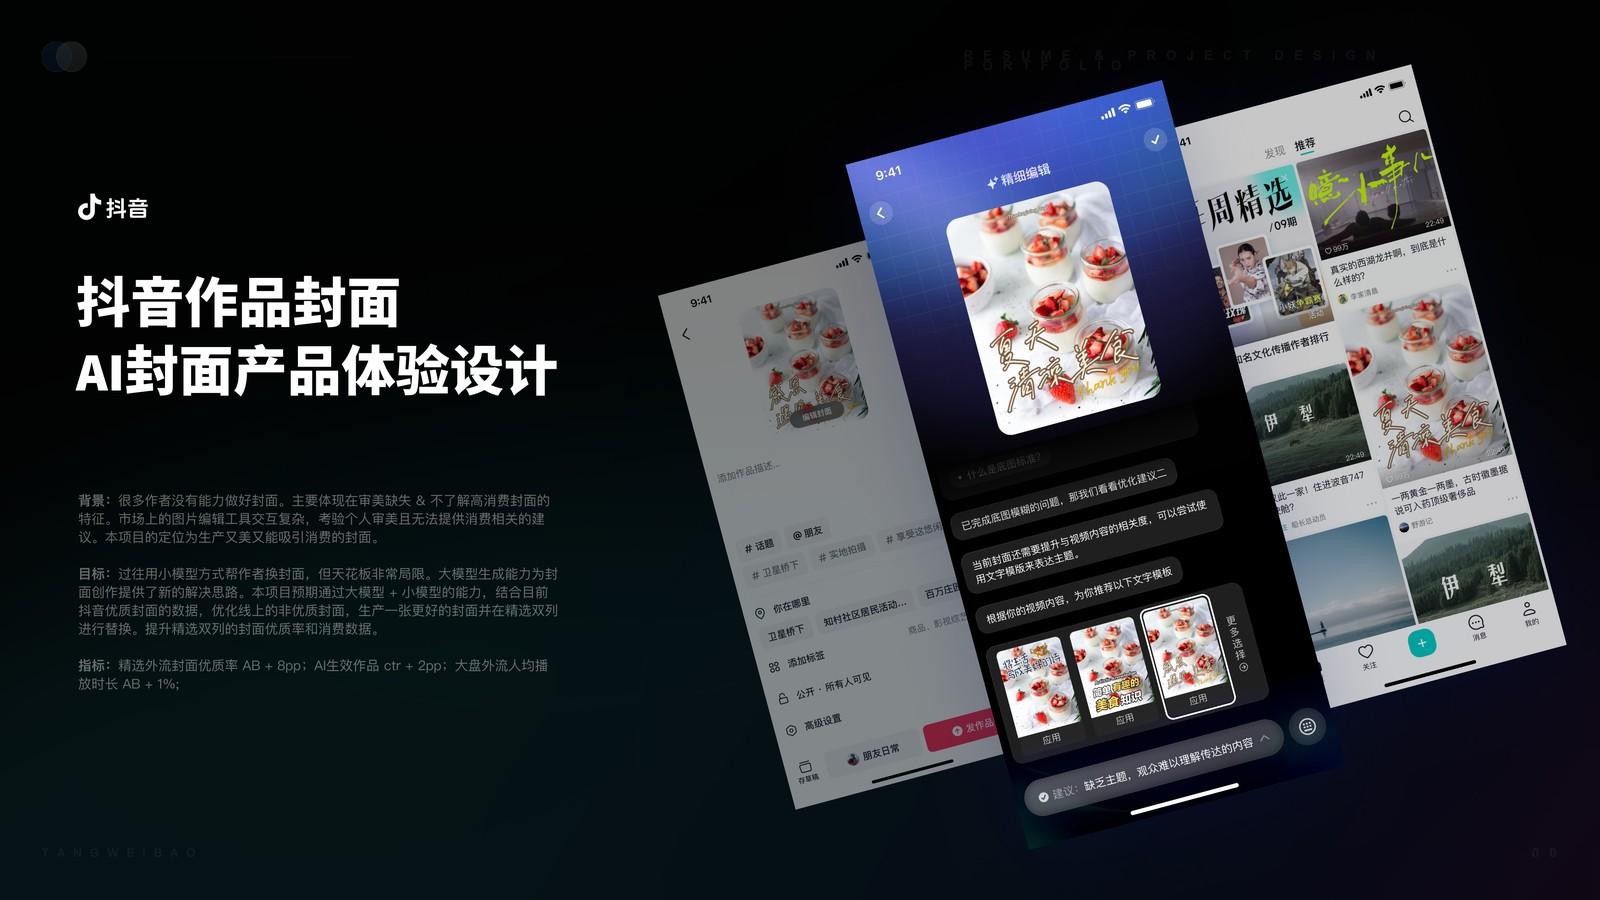
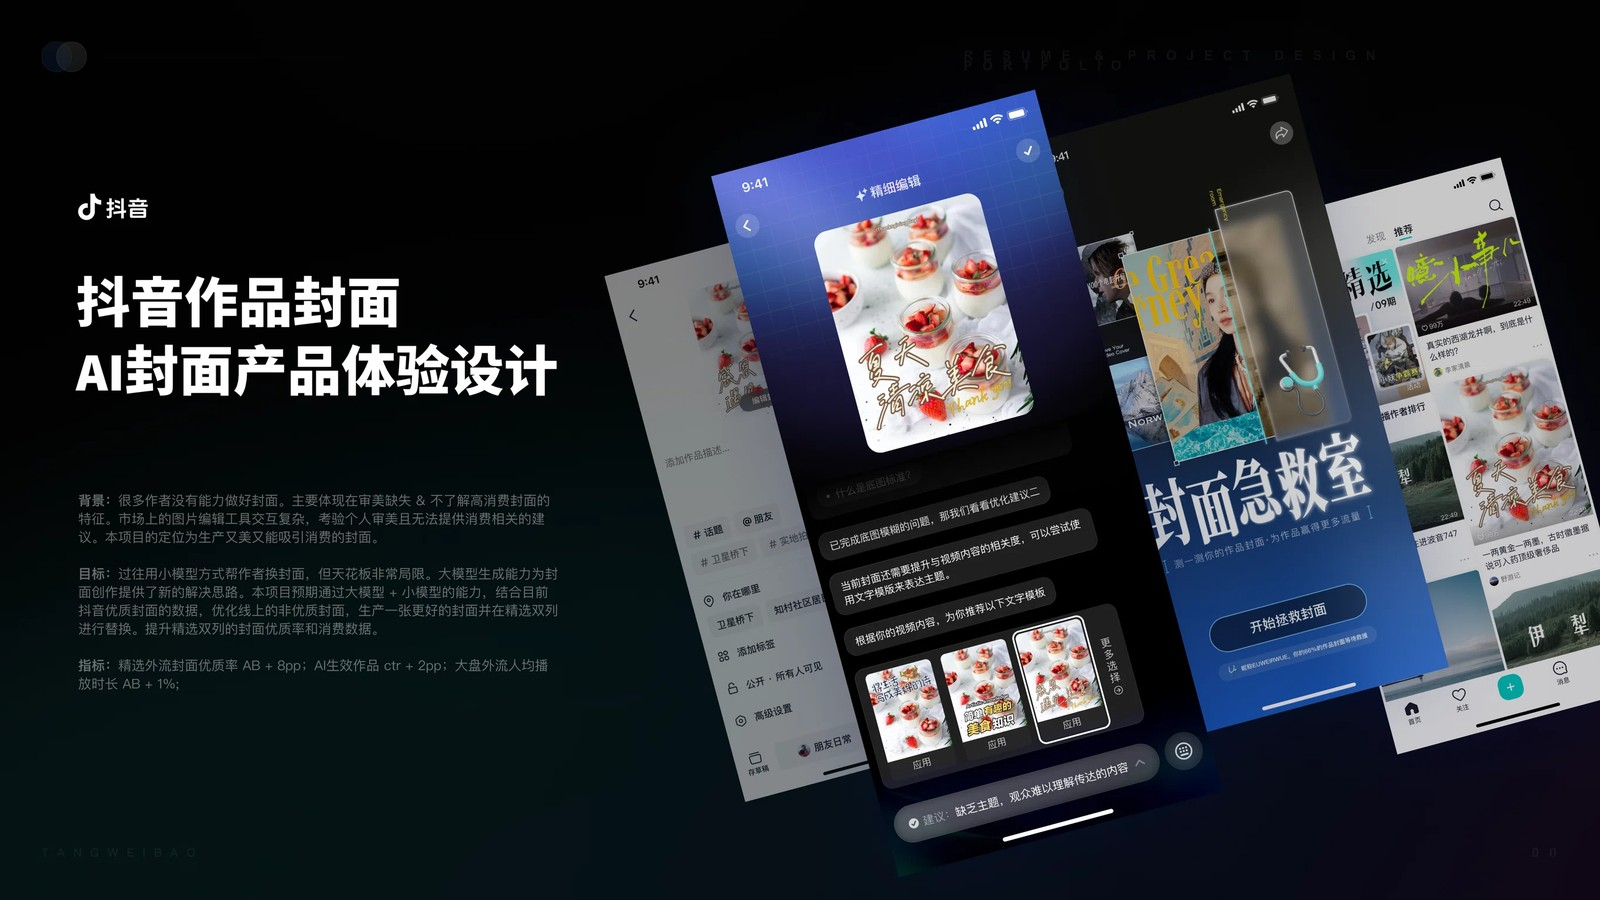
替换抖音AI封面与金山词霸的首页封面
- 抖音AI封面：使用本轮提供的「AI封面」新设计稿（2730×1536 WEBP），
  转 1600×900 JPEG q90 → assets/thumbs/douyin-ai-cover.jpg
- 金山词霸：使用 2026 作品封面/金山办公.png（3840×2160 PNG），
  转 1600×900 JPEG q90 → assets/thumbs/mobile.jpg
- 其余封面与作品内页不变；封面仍为独立文件，与第 1 页解耦
- AGENTS.md §2 / §3.2 / §6.1 同步

验证：首页 1440×900 / 项目导航截图检查两张新封面裁切正常；无 JS 报错。

diff --git a/AGENTS.md b/AGENTS.md
@@ -20,7 +20,7 @@
 | `script.js` | 数据、hash 路由、横向工作流（阻尼/拖拽）、查看器、缩略图、联系名片、焦点管理 |
 | `assets/fonts/` | Caveat / Kalam woff2（手写体强调） |
 | `assets/marks/` | 三家公司图标 `bytedance / jd / kingsoft.webp`（180–183px，RGBA 透明圆角；`douyin.webp` 保留但已不再引用） |
-| `assets/thumbs/` | 卡片封面：字节跳动四个项目使用 `2026 作品材料/作品封面` 提供的四张设计稿，压缩后为 `douyin-platform / douyin-ai-cover / douyin-other / douyin-ai-practice.jpg`（1600×900 JPEG）；JD（`jd.jpg`）与金山词霸（`mobile.jpg`）沿用原封面 |
+| `assets/thumbs/` | 卡片封面：字节跳动四个项目 + 金山词霸使用 `2026 作品材料/作品封面` 的设计稿，压缩后为 `douyin-platform / douyin-ai-cover / douyin-other / douyin-ai-practice / mobile.jpg`（1600×900 JPEG）；JD 沿用 `jd.jpg` 原封面 |
 | `assets/slide-thumbs/` | 查看器缩略图（16:9，320×180；`byte-*` 为字节跳动四个项目、`jd/kingsoft` 为历史项目） |
 | `assets/works/bytedance/` | 2026 作品材料导入的字节跳动四个项目：`platform`（35 页）、`ai-cover`（9 页）、`other`（4 页）、`ai-practice`（5 页图片 + 1 页复合视频），统一 2560×1440 JPEG |
 | `assets/video/` | 复合页演示视频（1080p H.264，≤12 MB/条）与 `-poster.jpg` 静帧 |
@@ -44,7 +44,7 @@
 ### 3.2 卡片封面（首页小卡 + 项目页大卡共用一张）
 
 - 字节跳动四个项目使用独立封面图：`assets/thumbs/douyin-*.jpg`（来源 `2026 作品材料/作品封面` 的四张 3840×2160 设计稿，统一压成 1600×900 JPEG）；封面不跟随第 1 页变化。
-- JD 与金山词霸沿用各自历史封面（`jd.jpg` / `mobile.jpg`，本身即设计稿）。
+- JD 沿用原封面 `jd.jpg`；金山词霸使用 `2026 作品材料/作品封面/金山办公.png` 压缩的 `mobile.jpg`（1600×900）。
 - 卡片呈现与京东零售封面一致：`object-fit: cover` 居中裁切；首页卡与项目页卡比例差异较大（0.25–1.43），保证封面中心内容落在裁切安全区。
 - 换封面时替换对应 `assets/thumbs/*.jpg` 即可；作品内页顺序与封面相互独立。
 - **卡片文字层**：顶部是项目名（Impact）+ 页数/类型（`32 PAGES · EXPLORE` 或「项目资料整理中」），底部是序号 `01` + 类型（`PLATFORM · WEB`）；遮罩为「顶部强渐变 + 底部弱渐变」两层，hover 时整层透明度 .76 → .38；`PENDING` 角标位于项目名块下方 52px。
@@ -175,7 +175,7 @@
 - 第一段经历的展示品牌为「字节跳动」，但历史路由 ID `douyin` 保持不变，避免破坏已有链接。
 - 字节跳动经历当前包含「抖音创作服务平台」「抖音AI封面」「抖音其他项目」「个人AI转型实践」四个真实项目；京东零售与金山办公各保留一个真实项目。已移除的占位项目不再展示，但禁用项目和坏路由的兜底逻辑继续保留。
 - 「抖音其他项目」当前第一页为原第 3 页（创作者分成项目），后续依次为原第 1、2、4 页。
-- 字节跳动四个项目使用独立封面图（`assets/thumbs/douyin-*.jpg`，来自 `2026 作品材料/作品封面`）；JD 与金山词霸沿用各自原有封面。封面与作品第 1 页可以不同，首页与项目页共用同一封面。
+- 字节跳动四个项目与金山词霸使用独立封面图（`assets/thumbs/douyin-*.jpg` / `mobile.jpg`，来自 `2026 作品材料/作品封面`）；JD 沿用原有封面。封面与作品第 1 页可以不同，首页与项目页共用同一封面。
 
 ### 6.2 视觉与响应式基线
 
